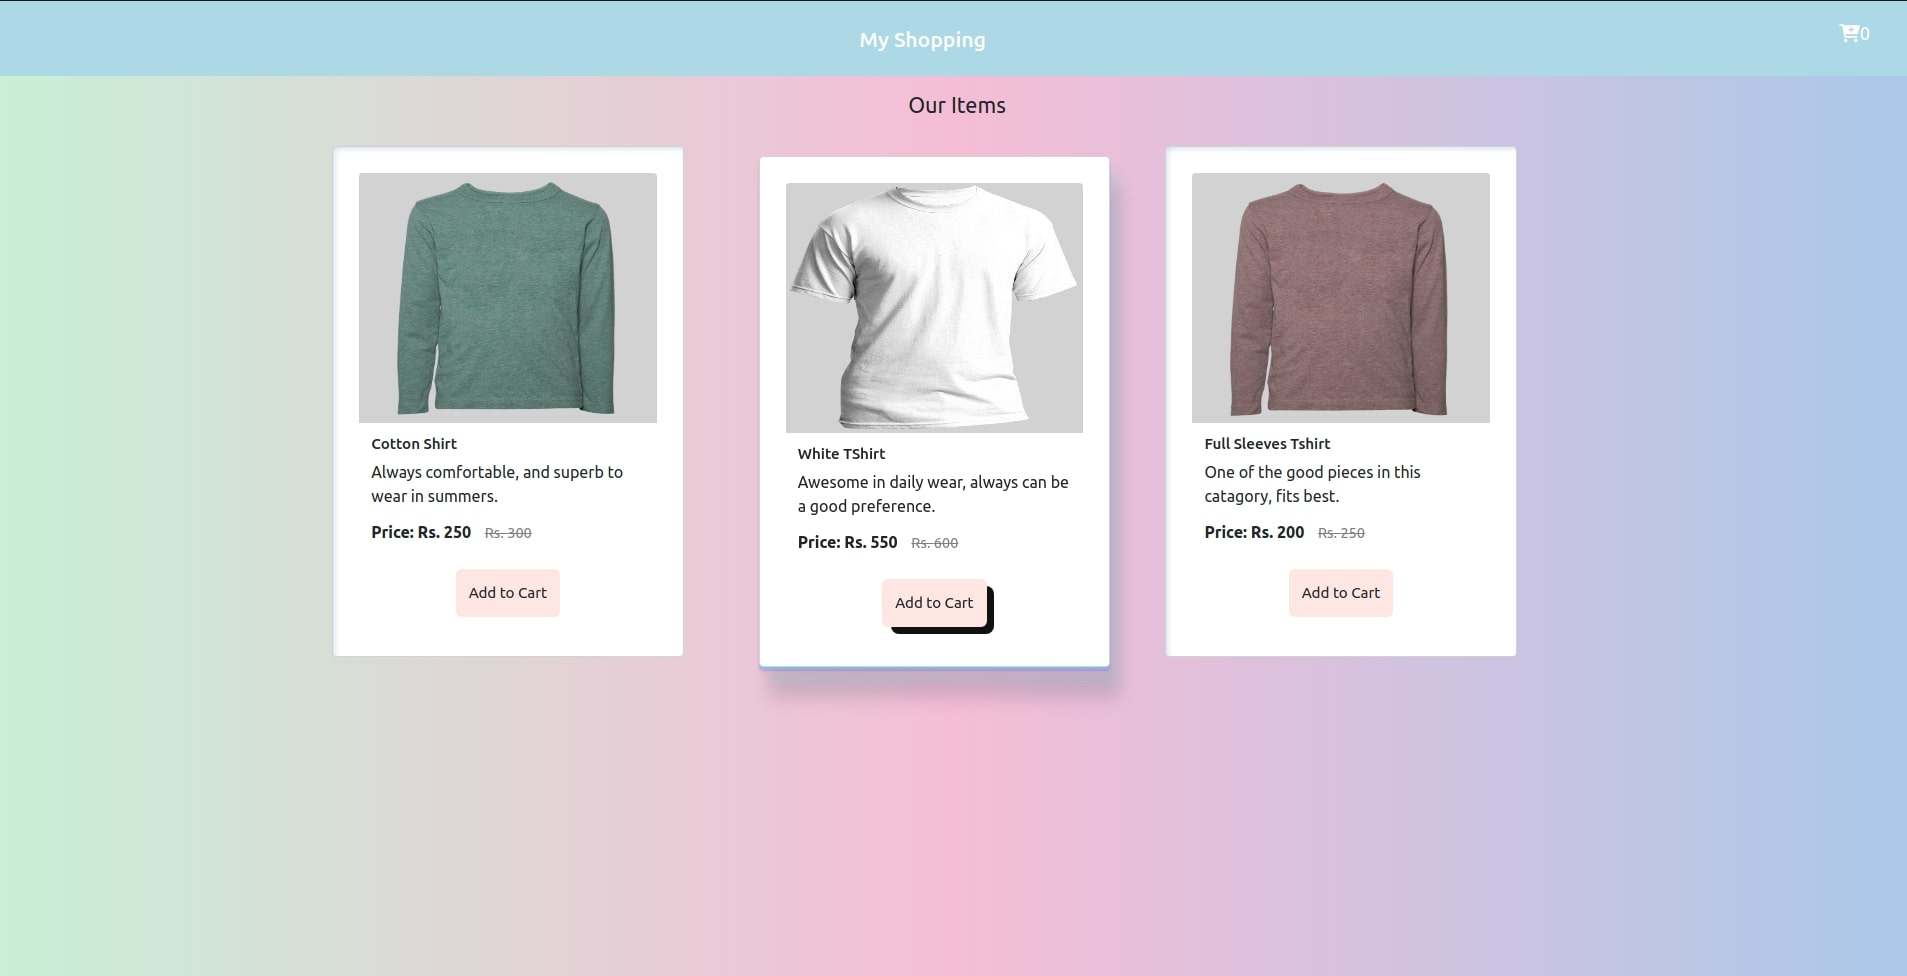
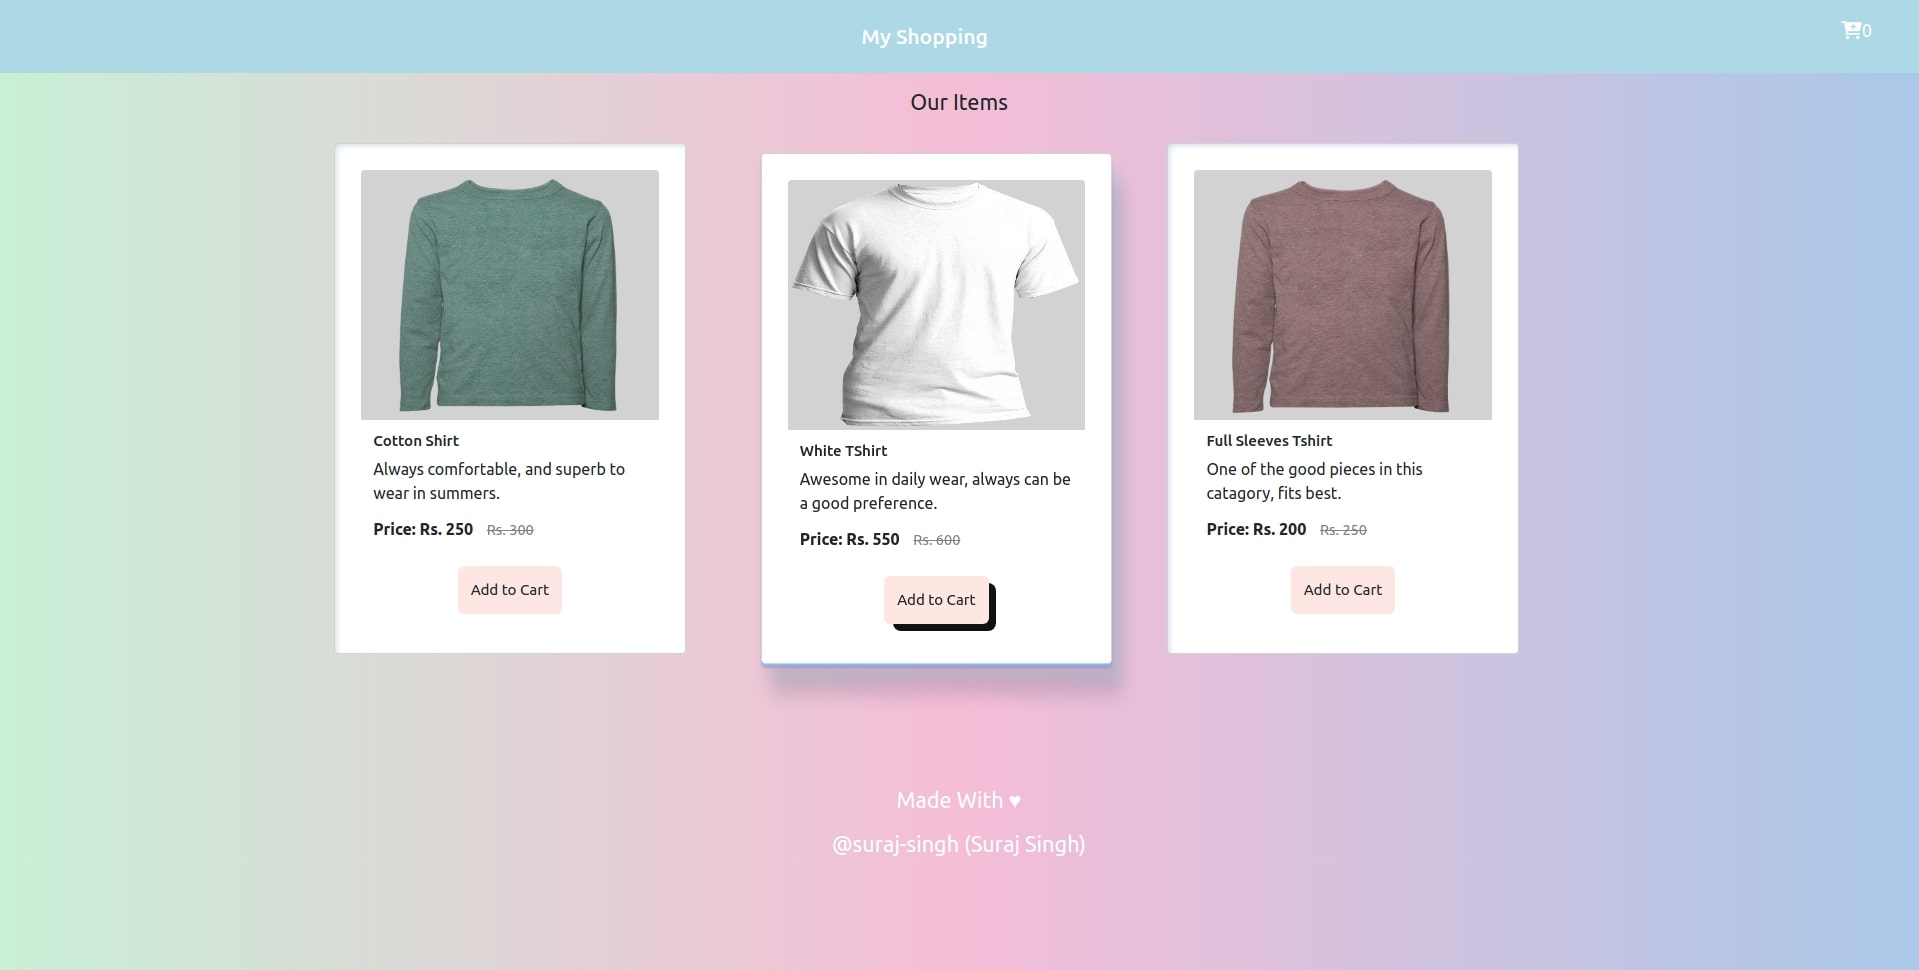
responsiveness improved (of cart)

diff --git a/src/components/styles/card.css b/src/components/styles/card.css
@@ -115,6 +115,29 @@
   outline: 0;
 }
 
+@media screen and (max-width: 1220px) {
+  .card {
+    width: 35% !important;
+    /* margin-top: 5%; */
+  }
+  .card:nth-child(n+3) {
+    margin-top: 5%;
+  }
+}
+
+@media screen and (max-width: 1000px) {
+  .card {
+    width: 45% !important;
+    /* margin-top: 5%; */
+  }
+}
+
+@media screen and (max-width: 650px) {
+  .card {
+    width: 55% !important;
+    /* margin-top: 5%; */
+  }
+}
 @media (min-width: 768px) {
   .btn-special {
     padding: 0 40px;

diff --git a/src/components/styles/home.css b/src/components/styles/home.css
@@ -47,6 +47,7 @@ section {
 }
 
 .copyright3 {
+  width: 100%;
   margin-top: 10%;
   color: white;
   text-align: center;

diff --git a/src/components/Home/home.css b/src/components/Home/home.css
@@ -45,7 +45,7 @@ body {
 }
 
 .home h1 {
-    font-size: 7rem;
+    font-size: 5vw;
 }
 
 .home:hover {
